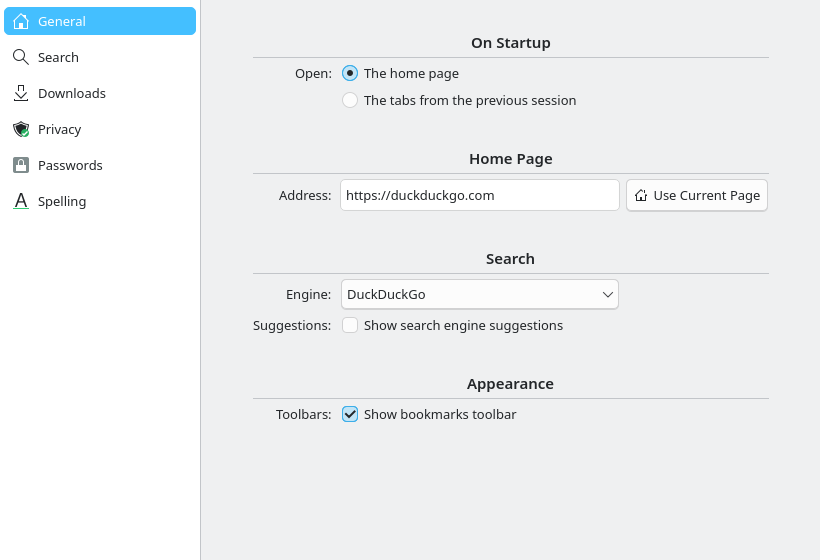
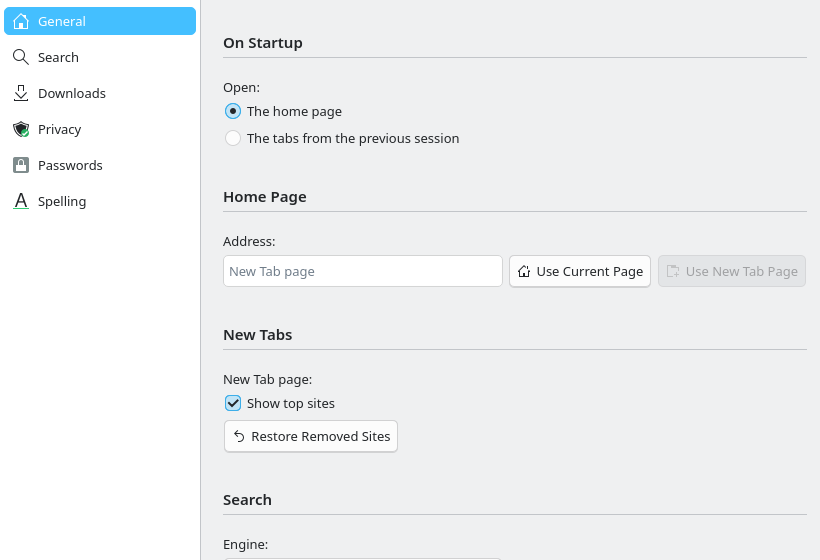
docs: specify the New Tab page (#43) and add it to the roadmap after #2

diff --git a/prototypes/43-new-tab-page.qml b/prototypes/43-new-tab-page.qml
@@ -1,0 +1,105 @@
+// #43 New Tab page — what a new normal tab shows: logo + application name, a search/address
+// field and the top sites from history. The tile menu (right click) is open on the third tile.
+import QtQuick
+import QtQuick.Controls
+import QtQuick.Layouts
+import org.kde.kirigami as Kirigami
+import "common"
+
+BrowserFrame {
+    tabs: [{ title: "KDE Community", icon: "kde" }, { title: "New Tab", icon: "tab-new" }]
+    currentTab: 1
+    address: ""
+    addressFocused: true
+
+    Rectangle {
+        id: page
+        anchors.fill: parent
+        Kirigami.Theme.colorSet: Kirigami.Theme.View
+        Kirigami.Theme.inherit: false
+        color: Kirigami.Theme.backgroundColor
+
+        ColumnLayout {
+            anchors.horizontalCenter: parent.horizontalCenter
+            anchors.top: parent.top
+            anchors.topMargin: Kirigami.Units.gridUnit * 4
+            width: Math.min(parent.width - Kirigami.Units.gridUnit * 4, Kirigami.Units.gridUnit * 36)
+            spacing: Kirigami.Units.gridUnit * 2
+
+            RowLayout {
+                Layout.alignment: Qt.AlignHCenter
+                spacing: Kirigami.Units.largeSpacing
+                Kirigami.Icon { source: "kondor"; fallback: "internet-web-browser"; Layout.preferredWidth: 64; Layout.preferredHeight: 64 }
+                Kirigami.Heading { level: 1; text: "Kondor Browser" }
+            }
+
+            TextField {
+                Layout.alignment: Qt.AlignHCenter
+                Layout.preferredWidth: Kirigami.Units.gridUnit * 30
+                placeholderText: "Search or enter address"
+            }
+
+            GridLayout {
+                id: grid
+                Layout.alignment: Qt.AlignHCenter
+                columns: 4
+                rowSpacing: Kirigami.Units.largeSpacing
+                columnSpacing: Kirigami.Units.largeSpacing
+
+                Repeater {
+                    model: [
+                        { host: "kde.org", icon: "kde" },
+                        { host: "en.wikipedia.org", icon: "internet-web-browser" },
+                        { host: "github.com", icon: "internet-web-browser" },
+                        { host: "fedoraproject.org", icon: "internet-web-browser" },
+                        { host: "invent.kde.org", icon: "kde" },
+                        { host: "planet.kde.org", icon: "kde" },
+                        { host: "duckduckgo.com", icon: "internet-web-browser" },
+                        { host: "news.ycombinator.com", icon: "internet-web-browser" }
+                    ]
+                    delegate: ItemDelegate {
+                        id: tile
+                        required property var modelData
+                        required property int index
+                        Layout.preferredWidth: Kirigami.Units.gridUnit * 7
+                        highlighted: index === 2
+                        contentItem: ColumnLayout {
+                            spacing: Kirigami.Units.smallSpacing
+                            Rectangle {
+                                Layout.alignment: Qt.AlignHCenter
+                                Layout.preferredWidth: Kirigami.Units.gridUnit * 3.5
+                                Layout.preferredHeight: Kirigami.Units.gridUnit * 3.5
+                                radius: Kirigami.Units.cornerRadius
+                                color: Kirigami.Theme.alternateBackgroundColor
+                                border.color: Qt.alpha(Kirigami.Theme.textColor, 0.15)
+                                Kirigami.Icon {
+                                    anchors.centerIn: parent
+                                    width: Kirigami.Units.iconSizes.medium
+                                    height: width
+                                    source: tile.modelData.icon
+                                }
+                            }
+                            Label {
+                                Layout.fillWidth: true
+                                horizontalAlignment: Text.AlignHCenter
+                                elide: Text.ElideRight
+                                text: tile.modelData.host
+                            }
+                        }
+                    }
+                }
+            }
+        }
+
+        Menu {
+            popupType: Popup.Item
+            x: page.width / 2 + 10
+            y: Kirigami.Units.gridUnit * 16
+            MenuItem { text: "Open in New Tab"; icon.name: "tab-new" }
+            MenuItem { text: "Open in New Private Tab"; icon.name: "view-private" }
+            MenuSeparator {}
+            MenuItem { text: "Remove from Top Sites"; icon.name: "list-remove" }
+            Component.onCompleted: open()
+        }
+    }
+}

diff --git a/prototypes/43b-new-private-tab-page.qml b/prototypes/43b-new-private-tab-page.qml
@@ -1,0 +1,52 @@
+// #43 New Tab page — private variant: no top sites, an explanation of private tabs instead.
+// Same look as the private new-tab page of #14 (14-private-window.qml), worded per tab.
+import QtQuick
+import QtQuick.Controls
+import QtQuick.Layouts
+import org.kde.kirigami as Kirigami
+import "common"
+
+BrowserFrame {
+    tabs: [{ title: "KDE Community", icon: "kde" }, { title: "New Private Tab", private: true }]
+    currentTab: 1
+    address: ""
+    addressFocused: true
+
+    Rectangle {
+        anchors.fill: parent
+        Kirigami.Theme.colorSet: Kirigami.Theme.View
+        Kirigami.Theme.inherit: false
+        color: Kirigami.Theme.backgroundColor
+
+        ColumnLayout {
+            anchors.horizontalCenter: parent.horizontalCenter
+            anchors.top: parent.top
+            anchors.topMargin: Kirigami.Units.gridUnit * 4
+            width: Math.min(parent.width - Kirigami.Units.gridUnit * 4, Kirigami.Units.gridUnit * 30)
+            spacing: Kirigami.Units.gridUnit * 2
+
+            Kirigami.Icon { source: "view-private"; Layout.preferredWidth: 96; Layout.preferredHeight: 96; Layout.alignment: Qt.AlignHCenter }
+            Kirigami.Heading { level: 1; text: "Private Tab"; Layout.alignment: Qt.AlignHCenter }
+
+            TextField {
+                Layout.alignment: Qt.AlignHCenter
+                Layout.preferredWidth: Kirigami.Units.gridUnit * 30
+                placeholderText: "Search or enter address"
+            }
+
+            Label {
+                Layout.fillWidth: true
+                wrapMode: Text.WordWrap
+                horizontalAlignment: Text.AlignHCenter
+                text: "Kondor Browser does not keep the history, cookies, form data or permissions of this tab. Everything is erased when you close it."
+            }
+            Label {
+                Layout.fillWidth: true
+                wrapMode: Text.WordWrap
+                horizontalAlignment: Text.AlignHCenter
+                color: Kirigami.Theme.disabledTextColor
+                text: "Downloads and bookmarks you create are kept. Your provider and the sites you visit can still see your activity."
+            }
+        }
+    }
+}

diff --git a/prototypes/03-settings.qml b/prototypes/03-settings.qml
@@ -55,9 +55,14 @@ Rectangle {
                 Kirigami.Separator { Kirigami.FormData.isSection: true; Kirigami.FormData.label: "Home Page" }
                 RowLayout {
                     Kirigami.FormData.label: "Address:"
-                    TextField { text: "https://duckduckgo.com"; Layout.preferredWidth: 280 }
+                    TextField { placeholderText: "New Tab page"; Layout.preferredWidth: 280 }
                     Button { text: "Use Current Page"; icon.name: "go-home" }
+                    Button { text: "Use New Tab Page"; icon.name: "tab-new"; enabled: false }
                 }
+
+                Kirigami.Separator { Kirigami.FormData.isSection: true; Kirigami.FormData.label: "New Tabs" }
+                CheckBox { Kirigami.FormData.label: "New Tab page:"; text: "Show top sites"; checked: true }
+                Button { text: "Restore Removed Sites"; icon.name: "edit-undo" }
 
                 Kirigami.Separator { Kirigami.FormData.isSection: true; Kirigami.FormData.label: "Search" }
                 ComboBox { Kirigami.FormData.label: "Engine:"; model: ["DuckDuckGo", "Google", "Startpage", "Brave Search", "Custom…"]; Layout.preferredWidth: 280 }

diff --git a/docs/specs/0043-new-tab-page.md b/docs/specs/0043-new-tab-page.md
@@ -1,0 +1,184 @@
+# New Tab page (#43)
+
+> **Issue:** [#43](https://github.com/lukasborges/kondor/issues/43) · **Priority:** P1 (high) · **State:** see the issue's label (`to-spec` / `to-dev` / `in-review`).
+> Read [`AGENTS.md`](../../AGENTS.md) first. This file is the source of truth for the issue; only the architect edits it.
+
+## Objective
+
+New tabs open Kondor Browser's own **New Tab page** (like Firefox Home): the application logo and
+name, a search/address field and the sites the user visits most. The configured home page is only
+used by the first tab at startup and by the Home button; a blank home page means the New Tab page,
+and blank is the new default. Private tabs show a private variant without top sites.
+
+## Context
+
+- `TabModel::insertTab()` (`src/tabmodel.cpp`) replaces an empty URL with `ProfileManager.homePage`,
+  so every new tab (Ctrl+T, the `+` button, menus, middle click on the tab bar) loads the home page.
+- `Settings.homePage` (`src/settings.cpp`) defaults to `https://duckduckgo.com`;
+  `Settings.startupBehavior` is `homepage` or `restore`. The Settings window edits both in the
+  "On Startup" and "Home Page" sections (`qml/SettingsWindow.qml`).
+- The startup tabs are created in `Main.qml` `Component.onCompleted` (session restore, command-line
+  URLs, then a fallback `tabs.addTab(...)`). The Home button calls
+  `navigateTo(ProfileManager.resolveAddress(""))`, which returns the home page.
+- `WebViewTab.qml` only loads `tab.url` when it is not empty. `SessionManager` skips entries with an
+  empty URL; `TabModel` remembers closed tabs (url, title, index) for "Reopen Closed Tab".
+- History lives in the **Database** block (`history(id, url, title, visited_at)`), written only for
+  normal tabs by `HistoryManager`.
+
+## Design / behavior
+
+1. **`Tab` state** (bridge pattern): `Q_PROPERTY(bool newTabPage READ newTabPage NOTIFY newTabPageChanged)`.
+   - A tab created with an empty URL starts with `newTabPage == true`.
+   - `Q_INVOKABLE void showNewTabPage()` sets it to `true` and emits `newTabPageRequested()`;
+     `WebViewTab.qml` handles that by loading `about:blank` in the `WebEngineView` (so Back returns
+     to the page that was there).
+   - `navigateTo(url)` with a non-empty URL sets it to `false` before emitting
+     `navigationRequested`. `navigateTo()` with an empty URL does nothing.
+   - `setUrl(url)` sets it to `false` when `url` is neither empty nor `about:blank` (Back/Forward,
+     links, reload of a real page).
+2. **`TabModel::insertTab()`** no longer substitutes the home page: an empty URL means the New Tab
+   page. `ClosedTab` entries are not recorded for tabs on the New Tab page.
+3. **`qml/NewTabPage.qml`** (new file, in `QML_FILES`), placed in `WebViewTab.qml` above the
+   `WebEngineView` with `anchors.fill: parent; visible: root.tab.newTabPage`. Background:
+   `Kirigami.Theme.colorSet: Kirigami.Theme.View`, `Kirigami.Theme.inherit: false`,
+   `color: Kirigami.Theme.backgroundColor`. Layout as in the prototype: a centered column,
+   `gridUnit * 4` from the top, `spacing: gridUnit * 2`, at most `gridUnit * 36` wide.
+   - **Normal tab:** a row with `Kirigami.Icon { source: "kondor" }` (64 px) and
+     `Kirigami.Heading { level: 1; text: Qt.application.displayName }`; a `TextField`
+     (`gridUnit * 30` wide, placeholder `qsTr("Search or enter address")`; Enter →
+     `tab.navigateTo(ProfileManager.resolveAddress(text))`, ignored when the text is blank); the
+     **top sites** grid (item 4) when `Settings.showTopSites` is on.
+   - **Private tab** (`tab.isPrivate`): `Kirigami.Icon { source: "view-private" }` (96 px),
+     `Kirigami.Heading { level: 1; text: qsTr("Private Tab") }`, the same `TextField`, and the two
+     labels of the prototype (second one in `Kirigami.Theme.disabledTextColor`). No top sites, no
+     history query.
+4. **Top sites.** `Q_INVOKABLE QVariantList HistoryManager::topSites(int limit)` returns up to
+   `limit` maps `{ url, title, host }`:
+   - reads `url, title, visited_at` of the visits in the last 90 days (http/https only);
+   - groups them by host, with a leading `www.` removed; a host's score is its number of visits;
+   - for each host, the tile URL is that host's most visited URL (tie: most recent), and the title
+     is the latest non-empty title of that URL;
+   - sorts by score, then by most recent visit; skips hosts listed in `Settings.hiddenTopSites`.
+   - The page asks for 8 sites every time it becomes visible (`onVisibleChanged`) and when
+     `Settings.hiddenTopSites` changes. No caching, no new table.
+   - Grid: `GridLayout` with `columns: Math.max(1, Math.min(4, Math.floor(width / (gridUnit * 8))))`,
+     one `ItemDelegate` per site (`gridUnit * 7` wide) with a `gridUnit * 3.5` rounded
+     `Rectangle` (`Kirigami.Theme.alternateBackgroundColor`, 1 px border from the text color at 15%)
+     holding a `Kirigami.Icon` (`iconSizes.medium`, `source: "image://favicon/" + url`,
+     `fallback: "internet-web-browser"`), and the host as an elided `Label` below.
+     `ToolTip` (`delay: 600`) shows title and URL.
+   - Click → `tab.navigateTo(url)`. Middle click or Ctrl+click → new background tab
+     (`tabModel.addTabWithProfile(tab.profile, url, true)`).
+   - Right click → `Menu`: "Open in New Tab" (`tab-new`), "Open in New Private Tab"
+     (`view-private`), separator, "Remove from Top Sites" (`list-remove`, appends the host to
+     `Settings.hiddenTopSites`).
+   - With no history (or every site hidden) the grid is replaced by a `Label` in
+     `Kirigami.Theme.disabledTextColor`: `qsTr("The sites you visit most will appear here.")`.
+5. **Address bar and toolbar** (`Main.qml`) when `currentTab.newTabPage`:
+   - the address field shows an empty text (placeholder visible), even after `showNewTabPage()`;
+   - Reload and the page actions that need a page (find in page, zoom, bookmark star once #2 is
+     merged) are disabled; Back/Forward keep following `canGoBack`/`canGoForward`;
+   - the tab button and the window title use `qsTr("New Tab")` (`qsTr("New Private Tab")` for a
+     private tab) instead of the page title; the tab icon is `tab-new` (`view-private` for private).
+6. **Opening new tabs.** Add `function openNewTab(isPrivate)` to `Main.qml`: `tabs.addTab(isPrivate)`,
+   then focus and select the address field (deferred with `Qt.callLater`, as the Ctrl+F fix in #32
+   does). Use it for every "new tab" entry point: the `+` button, double/middle click on the empty
+   tab bar, File/menu "New Tab" and "New Private Tab", Ctrl+T, Ctrl+Shift+P and the tab context
+   menu (`TabContextMenu.qml` emits `newTabRequested()` instead of calling the model).
+7. **Home page = first tab only.**
+   - Startup with `startupBehavior == "homepage"` and no command-line URL: one tab with
+     `Settings.homePage` (blank → New Tab page).
+   - Startup with `restore`: the restored tabs; if nothing was restored, one home page tab as above.
+   - `kondor --private` without URL: one private New Tab page.
+   - Home button: `Settings.homePage` blank → `currentTab.showNewTabPage()`, else
+     `navigateTo(homePage)`.
+   - `ProfileManager.resolveAddress("")` keeps returning the home page (it may now be an empty URL);
+     callers must not navigate to an empty URL (see item 1).
+8. **Settings** (**Settings** block, `src/settings.{h,cpp}`):
+   - `homePage` default changes to `""` (values already saved by users are kept).
+   - New `Q_PROPERTY(bool showTopSites …)` (key `NewTab/ShowTopSites`, default `true`) and
+     `Q_PROPERTY(QStringList hiddenTopSites …)` (key `NewTab/HiddenTopSites`, default empty).
+   - `SettingsWindow.qml`, General page, as in the updated `03-settings` prototype:
+     - "Home Page" section: the address field's placeholder becomes `qsTr("New Tab page")`, and a
+       new button "Use New Tab Page" (`tab-new`) clears the address. It is disabled when the
+       address is already blank. Clearing the field by hand also means the New Tab page: skip
+       `resolveAddress()` for blank text.
+     - New "New Tabs" section with the `CheckBox` "Show top sites" (form label "New Tab page:") and
+       the button "Restore Removed Sites" (`edit-undo`, clears `hiddenTopSites`, disabled when the
+       list is empty).
+9. **Session restore** (`SessionManager`): a tab on the New Tab page is saved as
+   `"url": "about:newtab"` and restored as a New Tab page tab (`addTab(false, QUrl())`). Private
+   tabs stay excluded as before.
+10. **Privacy:** the private variant never calls `HistoryManager.topSites()`; "Open in New Private
+    Tab" from a tile opens a private tab, and nothing about it is written. `about:blank` loaded by
+    `showNewTabPage()` must not be recorded in history (check `HistoryManager::isTracked`).
+11. **Strings and docs:** every new string in `qsTr()` and translated in all `i18n/*.ts` files (CI
+    "Check translations"). README: add the New Tab page to Features → Implemented, and describe the
+    home page change.
+
+## Acceptance criteria
+
+- [ ] Ctrl+T, the `+` button, the menus and the tab context menu open the New Tab page with the
+      address field focused; typing there or in the page field and pressing Enter navigates.
+- [ ] With the default settings, startup shows the New Tab page; with a home page set, only the
+      first tab at startup (and the Home button) loads it, new tabs still show the New Tab page.
+- [ ] Top sites show up to 8 sites from the last 90 days of history, most visited first, with
+      favicons (globe icon when none) and the host name; click, middle click and the context menu
+      work; "Remove from Top Sites" hides a site until "Restore Removed Sites".
+- [ ] "Show top sites" off hides the grid; with no history the placeholder text is shown.
+- [ ] A private tab shows the private variant, with no top sites; nothing from it reaches disk.
+- [ ] Back after navigating from a Home-button New Tab page returns to the previous page; the
+      tab/window title says "New Tab"; Reload is disabled on the page.
+- [ ] Session restore brings back New Tab page tabs; they are not added to "Reopen Closed Tab".
+- [ ] All new strings are translated in every `i18n/*.ts`; the README is updated.
+- [ ] Matches the prototypes.
+
+## Manual test
+
+Use an isolated profile (temporary `XDG_*` dirs, see `AGENTS.md`).
+1. Start Kondor: the New Tab page with an empty grid placeholder. Visit kde.org (3 pages),
+   wikipedia.org (2 pages) and fedoraproject.org once.
+2. Ctrl+T: the address field has focus; the grid shows kde.org, wikipedia.org, fedoraproject.org in
+   that order, with favicons. Middle-click one tile: a background tab opens.
+3. Right-click wikipedia.org → "Remove from Top Sites": it disappears. Settings → "Restore Removed
+   Sites": it comes back on the next New Tab page.
+4. Settings → home page `https://kde.org`. Restart: the first tab loads kde.org; Ctrl+T still shows
+   the New Tab page. "Use New Tab Page", restart: the New Tab page again.
+5. On a site, press Home with a blank home page: the New Tab page shows; press Back: the site again.
+6. Ctrl+Shift+P: the private variant, without top sites.
+7. Startup "restore" with two New Tab pages and one site open, restart: all three come back.
+
+## Out of scope
+
+Pinning or reordering tiles, adding custom tiles, editing tile titles, thumbnails/screenshots of
+sites, widgets (weather, clocks, news), sponsored tiles, wallpapers, a "New tabs open:" choice
+(always the New Tab page), recently closed tabs on the page, bookmarks on the page. An HTML
+`kondor:` URL scheme (the page is native QML).
+
+## Dependencies
+
+#1 (history, Database), #3 (Settings), #6 (session restore), #12 (tab context menu), #19/#34
+(translations). Merge after #2 (Bookmarks), which also edits `Main.qml` and `WebViewTab.qml`.
+
+## Prototype
+
+Visual target — match it (controls, Kirigami components, icon names, wording, placement). If it disagrees with this spec, the spec wins.
+
+**New Tab page (tile menu open)** — [`prototypes/43-new-tab-page.qml`](../../prototypes/43-new-tab-page.qml)
+
+![New Tab page](../../prototypes/screenshots/43-new-tab-page.png)
+
+**New private tab** — [`prototypes/43b-new-private-tab-page.qml`](../../prototypes/43b-new-private-tab-page.qml)
+
+![New private tab](../../prototypes/screenshots/43b-new-private-tab-page.png)
+
+**Settings, General page** ("Home Page" and "New Tabs" sections) — [`prototypes/03-settings.qml`](../../prototypes/03-settings.qml)
+
+![Settings](../../prototypes/screenshots/03-settings.png)
+
+## Decisions
+
+| Question | Decision |
+| --- | --- |
+| Native QML page or an HTML page on a custom scheme? | Native QML overlay in `WebViewTab.qml` (Breeze look, `Kirigami.Theme` colors). The `about:blank` load in `showNewTabPage()` keeps Back working. |
+| What does the home page setting control now? | Only the first tab at startup and the Home button. Blank (the new default) means the New Tab page. |

diff --git a/AGENTS.md b/AGENTS.md
@@ -181,9 +181,9 @@ first: shared blocks, then privacy fixes, then features):
 5. #12 Tab management (fixes the private-tab link bug) · 6. #19 Translations (English source +
 pt_BR) · 7. #36 Rename to Kondor Browser · 8. #34 Translations for the main KDE languages ·
 9. #26 Automated tests ·
-10. #10 Default browser · 11. #6 Session restore · 12. #2 Bookmarks · 13. #7 Site permissions ·
-14. #9 Security indicator · 15. #8 Fullscreen · 16. #18 Crashed page · 17. #13 Page context menu ·
-18. #11 Address bar suggestions · 19. #14 Multiple windows · 20. #15 Single instance ·
-21. #16 Developer tools · 22. #17 Print and save as PDF · 23. #24 Per-site zoom ·
-24. #23 Spell checking · 25. #22 Reader mode · 26. #20 Ad and tracker blocking · 27. #21 Passwords ·
-28. #25 Flatpak
+10. #10 Default browser · 11. #6 Session restore · 12. #2 Bookmarks · 13. #43 New Tab page ·
+14. #7 Site permissions · 15. #9 Security indicator · 16. #8 Fullscreen · 17. #18 Crashed page ·
+18. #13 Page context menu · 19. #11 Address bar suggestions · 20. #14 Multiple windows ·
+21. #15 Single instance · 22. #16 Developer tools · 23. #17 Print and save as PDF ·
+24. #24 Per-site zoom · 25. #23 Spell checking · 26. #22 Reader mode ·
+27. #20 Ad and tracker blocking · 28. #21 Passwords · 29. #25 Flatpak

diff --git a/prototypes/README.md b/prototypes/README.md
@@ -52,6 +52,7 @@ Tips when editing:
 | #22 Reader mode | `22-reader-mode.qml` |
 | #23 Spell checking | `23-spellcheck.qml` |
 | #24 Per-site zoom | `24-site-zoom.qml` |
+| #43 New Tab page | `43-new-tab-page.qml`, `43b-new-private-tab-page.qml`, `03-settings.qml` ("Home Page", "New Tabs") |
 | — Target main menu | `00-main-menu.qml` (all menu entries added by the roadmap) |
 
 Issues without UI (#10 default browser, #15 single instance, #19 translations, #25 Flatpak,
